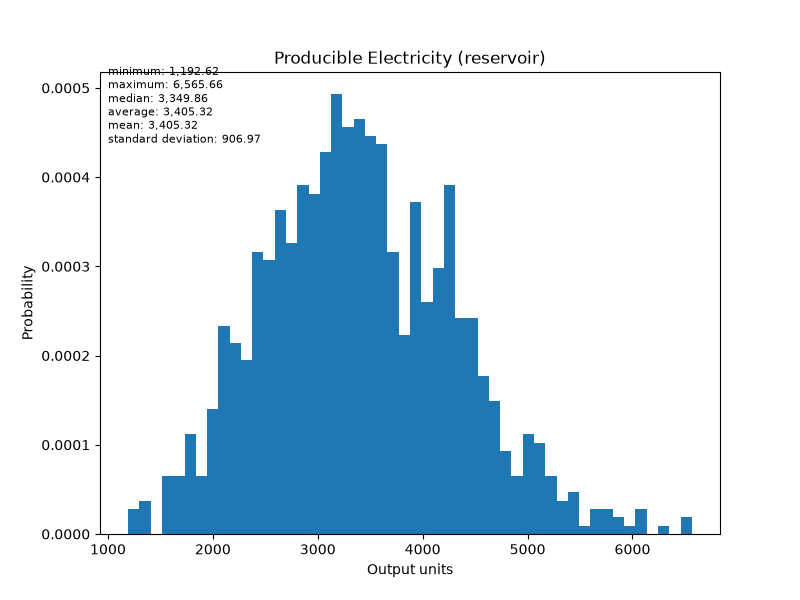
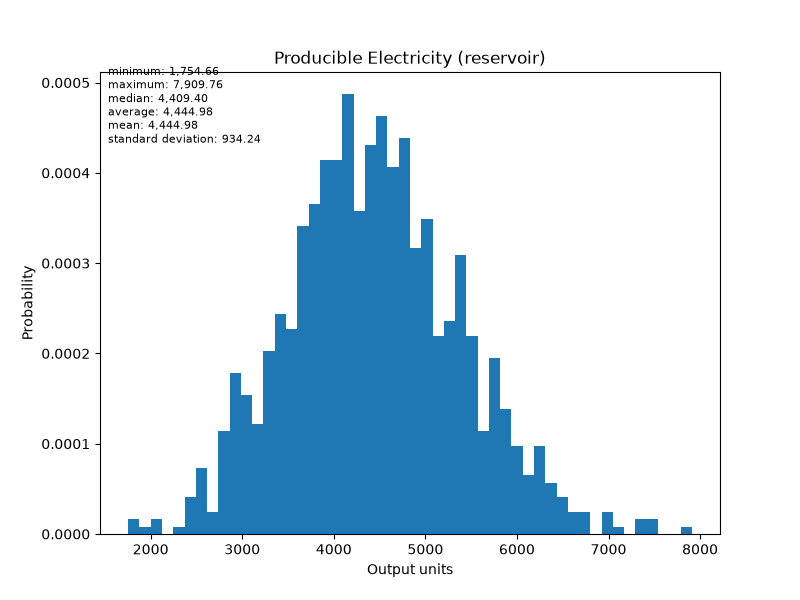
Centre the Monte Carlo on the volume-weighted temperature (#509)
The simulation sampled Reservoir Temperature around 210 C, the midpoint of
D&M's 170-250 C range, returning a mean Stored Heat of 55,018 x10^15 J against
their reported mean HIIP of 63,560 - 13% low. The document's claim that the
simulation mirrored the SEC probabilistic mean was not supported by its own
generated output.

The accumulation is not thermally uniform. D&M's capacity per unit rock volume
rises with depth, 66 / 77 / 78 MW/km3 across their three intervals.
Reconstructing each interval from its published capacity and Gross HIIP gives
implied temperatures of 215, 238 and 240 C: increasing monotonically with
depth, summing to their reported mean, and all inside the stated range. The
volume-weighted mean is 228 C.

Centring the Monte Carlo there gives 63,115 against 63,560, within 0.7%. The
deterministic 199 C case continues to match the Low Estimate within 0.5%.

Adds a Thermal structure of the accumulation section documenting the
reconstruction, and states its two limitations: the implied temperatures depend
on the adopted rock heat capacity, and the volumes carry no geometric
interpretation since areal extent and net thickness are redacted.

diff --git a/src/geophires_docs/generate_fpc_hiip_analysis_doc.py b/src/geophires_docs/generate_fpc_hiip_analysis_doc.py
@@ -71,7 +71,11 @@ def generate_fpc_hiip_analysis_doc():
     with open(mc_settings_path, 'w') as f:
         # The SEC HIIP methodology explicitly models productive volume (Area * Thickness),
         # density, specific heat (Rock Heat Capacity), and temperature using normal distributions.
-        f.write('INPUT, Reservoir Temperature, normal, 210.0, 15.0\n')
+        # 228 C is the volume-weighted mean of the temperatures implied by D&M's
+        # per-interval HIIP and capacity per unit rock volume, not the 170-250 C
+        # range midpoint of 210 C. See the Estimation of Heat Initially in Place
+        # section of the analysis document for the reconstruction.
+        f.write('INPUT, Reservoir Temperature, normal, 228.0, 15.0\n')
         f.write('INPUT, Reservoir Area, normal, 48.0, 2.4\n')
         f.write('INPUT, Reservoir Thickness, normal, 4.0, 0.2\n')
         f.write('INPUT, Rock Heat Capacity, normal, 2.212e12, 1.1e11\n')
